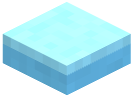
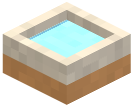
feat: water auto-connection via 4-neighbor mask variants (Task 5)
TileMap.waterMaskAt computes the neighbor mask (N/E/S/W bits; canal-edge
counts as water so pools connect to canals; out-of-bounds is dry so the
platform border keeps its bank). The renderer swaps 'tile-water' cells
for 'tile-water-<mask>' at draw time.

The 16 variants come from one parameterized model (stone banks only on
closed sides, recessed water surface meeting seamlessly on open sides),
generated through the Three.js pipeline — pack grows 60 -> 76 PNGs,
manifest category 'terrain-variant' keeps them out of the palette.

TDD: mask expectations added to the TileMap self-check first (2x3 pool
corners/edges, isolated tile, canal neighbor, platform border), then the
implementation. Verified in-browser: a 2x3 pool reads as one body with
banks only on the outer border; a lone tile shows all four banks.

diff --git a/Voxel-Diorama/japan/mockup/assets/contact-sheet.html b/Voxel-Diorama/japan/mockup/assets/contact-sheet.html
@@ -9,7 +9,7 @@
   img { max-width: 160px; } /* smooth scaling: sprites are antialiased 3D renders */
   figcaption { font-size: 12px; margin-top: 8px; } code { color: #a08c6a; font-size: 10px; }
 </style></head>
-<body><h1>Japanese Temple Voxels — generated asset pack (60)</h1>
+<body><h1>Japanese Temple Voxels — generated asset pack (76)</h1>
 
     <h2>terrain</h2>
     <div class="grid">
@@ -93,5 +93,25 @@
       <figure><img src="ui-highlight-hover.png" alt="Hover Highlight"><figcaption>Hover Highlight<br><code>ui-highlight-hover</code></figcaption></figure>
       <figure><img src="ui-highlight-valid.png" alt="Valid Placement"><figcaption>Valid Placement<br><code>ui-highlight-valid</code></figcaption></figure>
       <figure><img src="ui-highlight-invalid.png" alt="Invalid Placement"><figcaption>Invalid Placement<br><code>ui-highlight-invalid</code></figcaption></figure>
+    </div>
+
+    <h2>terrain-variant</h2>
+    <div class="grid">
+      <figure><img src="tile-water-0.png" alt="Water Variant 0"><figcaption>Water Variant 0<br><code>tile-water-0</code></figcaption></figure>
+      <figure><img src="tile-water-1.png" alt="Water Variant 1"><figcaption>Water Variant 1<br><code>tile-water-1</code></figcaption></figure>
+      <figure><img src="tile-water-2.png" alt="Water Variant 2"><figcaption>Water Variant 2<br><code>tile-water-2</code></figcaption></figure>
+      <figure><img src="tile-water-3.png" alt="Water Variant 3"><figcaption>Water Variant 3<br><code>tile-water-3</code></figcaption></figure>
+      <figure><img src="tile-water-4.png" alt="Water Variant 4"><figcaption>Water Variant 4<br><code>tile-water-4</code></figcaption></figure>
+      <figure><img src="tile-water-5.png" alt="Water Variant 5"><figcaption>Water Variant 5<br><code>tile-water-5</code></figcaption></figure>
+      <figure><img src="tile-water-6.png" alt="Water Variant 6"><figcaption>Water Variant 6<br><code>tile-water-6</code></figcaption></figure>
+      <figure><img src="tile-water-7.png" alt="Water Variant 7"><figcaption>Water Variant 7<br><code>tile-water-7</code></figcaption></figure>
+      <figure><img src="tile-water-8.png" alt="Water Variant 8"><figcaption>Water Variant 8<br><code>tile-water-8</code></figcaption></figure>
+      <figure><img src="tile-water-9.png" alt="Water Variant 9"><figcaption>Water Variant 9<br><code>tile-water-9</code></figcaption></figure>
+      <figure><img src="tile-water-10.png" alt="Water Variant 10"><figcaption>Water Variant 10<br><code>tile-water-10</code></figcaption></figure>
+      <figure><img src="tile-water-11.png" alt="Water Variant 11"><figcaption>Water Variant 11<br><code>tile-water-11</code></figcaption></figure>
+      <figure><img src="tile-water-12.png" alt="Water Variant 12"><figcaption>Water Variant 12<br><code>tile-water-12</code></figcaption></figure>
+      <figure><img src="tile-water-13.png" alt="Water Variant 13"><figcaption>Water Variant 13<br><code>tile-water-13</code></figcaption></figure>
+      <figure><img src="tile-water-14.png" alt="Water Variant 14"><figcaption>Water Variant 14<br><code>tile-water-14</code></figcaption></figure>
+      <figure><img src="tile-water-15.png" alt="Water Variant 15"><figcaption>Water Variant 15<br><code>tile-water-15</code></figcaption></figure>
     </div>
 </body></html>

diff --git a/Voxel-Diorama/japan/mockup/src/grid/TileMap.js b/Voxel-Diorama/japan/mockup/src/grid/TileMap.js
@@ -33,6 +33,25 @@
       if (this.inBounds(col, row)) this.terrain[row][col] = tileId;
     }
 
+    // --- water auto-connection ---
+    // A side is "open" (no bank) when its neighbor holds water. Canal edges
+    // count as water so pools flow into canals. Out of bounds is not water,
+    // keeping a bank along the platform border.
+    isWaterLike(col, row) {
+      const t = this.getTerrain(col, row);
+      return t === 'tile-water' || t === 'tile-canal-edge';
+    }
+
+    // bit1 = N(-row), bit2 = E(+col), bit4 = S(+row), bit8 = W(-col)
+    waterMaskAt(col, row) {
+      let m = 0;
+      if (this.isWaterLike(col, row - 1)) m |= 1;
+      if (this.isWaterLike(col + 1, row)) m |= 2;
+      if (this.isWaterLike(col, row + 1)) m |= 4;
+      if (this.isWaterLike(col - 1, row)) m |= 8;
+      return m;
+    }
+
     // --- object layer ---
     objectAt(col, row) {
       return this.occ.get(col + ',' + row) || null;
@@ -165,6 +184,23 @@
     map.removeObjectAt(6, 6); // any temple cell
     assert.strictEqual(map.objectAt(5, 5), null, 'temple fully removed');
     assert.strictEqual(map.canPlace(5, 5, 3, 3), true, 'cells freed after erase');
+
+    // water auto-connection mask: bit1=N(-row) bit2=E(+col) bit4=S(+row) bit8=W(-col)
+    const wm = new TileMap(12, 12, 'tile-grass');
+    for (const [c, r] of [[4, 4], [5, 4], [4, 5], [5, 5], [4, 6], [5, 6]]) {
+      wm.setTerrain(c, r, 'tile-water'); // 2x3 pool, cols 4-5, rows 4-6
+    }
+    wm.setTerrain(9, 9, 'tile-water');   // isolated tile
+    assert.strictEqual(wm.waterMaskAt(9, 9), 0, 'isolated water: all four banks');
+    assert.strictEqual(wm.waterMaskAt(4, 4), 2 | 4, 'pool NW corner: open E+S');
+    assert.strictEqual(wm.waterMaskAt(5, 5), 1 | 4 | 8, 'pool mid-right edge: open N+S+W');
+    assert.strictEqual(wm.waterMaskAt(5, 6), 1 | 8, 'pool SE corner: open N+W');
+    // canal-edge counts as water so pools visually connect to canals
+    wm.setTerrain(4, 3, 'tile-canal-edge');
+    assert.strictEqual(wm.waterMaskAt(4, 4), 1 | 2 | 4, 'canal neighbor opens N');
+    // grid border: out-of-bounds is not water -> bank at the platform edge
+    wm.setTerrain(0, 0, 'tile-water');
+    assert.strictEqual(wm.waterMaskAt(0, 0), 0, 'platform corner keeps banks');
 
     console.log('TileMap self-check OK');
   }

diff --git a/Voxel-Diorama/japan/mockup/src/assets/assetModels.js b/Voxel-Diorama/japan/mockup/src/assets/assetModels.js
@@ -92,6 +92,22 @@ function dirtBody(v, h = 3) {
   v.box(0, 0, 0, 8, 8, h, C.dirt, { jitter: 0.05 });
 }
 
+// Recessed water with stone banks on the closed sides. mask bits (grid space):
+// 1 = N(-row, model y=0) open, 2 = E(+col, x=7), 4 = S(+row, y=7), 8 = W(-col, x=0).
+function waterVariant(mask) {
+  return {
+    shadow: false,
+    build(v) {
+      v.box(0, 0, 0, 8, 8, 2, C.dirt, { jitter: 0.05 });        // base
+      v.box(0, 0, 2, 8, 8, 1, C.waterTop, { jitter: 0.06 });    // water surface
+      if (!(mask & 1)) v.box(0, 0, 2, 8, 1, 2, C.stone, { jitter: 0.05 });
+      if (!(mask & 2)) v.box(7, 0, 2, 1, 8, 2, C.stone, { jitter: 0.05 });
+      if (!(mask & 4)) v.box(0, 7, 2, 8, 1, 2, C.stone, { jitter: 0.05 });
+      if (!(mask & 8)) v.box(0, 0, 2, 1, 8, 2, C.stone, { jitter: 0.05 });
+    },
+  };
+}
+
 const MODELS = {
   // ===== terrain =====
   'tile-grass': {
@@ -120,13 +136,10 @@ const MODELS = {
     shadow: false,
     build(v) { v.box(0, 0, 0, 8, 8, 4, C.dirt, { jitter: 0.06 }); },
   },
-  'tile-water': {
-    shadow: false,
-    build(v) {
-      v.box(0, 0, 0, 8, 8, 3, C.water, { jitter: 0.03 });
-      v.box(0, 0, 2, 8, 8, 1, C.waterTop, { jitter: 0.06 }); // recessed 1 below grass
-    },
-  },
+  // Water connects: the renderer swaps 'tile-water' cells for the variant
+  // matching the 4-neighbor water mask (see TileMap.waterMaskAt). Stone banks
+  // sit on sides WITHOUT a water neighbor; open sides meet seamlessly.
+  'tile-water': waterVariant(0), // palette icon / preview ghost: isolated look
   'tile-stone': {
     shadow: false,
     build(v) {
@@ -660,5 +673,8 @@ const MODELS = {
     },
   },
 };
+
+// the 16 render-time water connection variants (manifest category 'terrain-variant')
+for (let m = 0; m < 16; m++) MODELS['tile-water-' + m] = waterVariant(m);
 
 module.exports = { MODELS };

diff --git a/Voxel-Diorama/japan/mockup/assets/meta.js b/Voxel-Diorama/japan/mockup/assets/meta.js
@@ -20,9 +20,9 @@ var JTV_SPRITE_META = {
  },
  "tile-water": {
   "w": 133,
-  "h": 97,
+  "h": 107,
   "ax": 66.83,
-  "ay": 25.42
+  "ay": 35.22
  },
  "tile-stone": {
   "w": 133,
@@ -359,6 +359,102 @@ var JTV_SPRITE_META = {
   "h": 68,
   "ax": 66,
   "ay": 34
+ },
+ "tile-water-0": {
+  "w": 133,
+  "h": 107,
+  "ax": 66.83,
+  "ay": 35.22
+ },
+ "tile-water-1": {
+  "w": 133,
+  "h": 107,
+  "ax": 66.83,
+  "ay": 35.22
+ },
+ "tile-water-2": {
+  "w": 133,
+  "h": 107,
+  "ax": 66.83,
+  "ay": 35.22
+ },
+ "tile-water-3": {
+  "w": 133,
+  "h": 107,
+  "ax": 66.83,
+  "ay": 35.22
+ },
+ "tile-water-4": {
+  "w": 133,
+  "h": 107,
+  "ax": 66.83,
+  "ay": 35.22
+ },
+ "tile-water-5": {
+  "w": 133,
+  "h": 107,
+  "ax": 66.83,
+  "ay": 35.22
+ },
+ "tile-water-6": {
+  "w": 133,
+  "h": 107,
+  "ax": 66.83,
+  "ay": 35.22
+ },
+ "tile-water-7": {
+  "w": 133,
+  "h": 107,
+  "ax": 66.83,
+  "ay": 35.22
+ },
+ "tile-water-8": {
+  "w": 133,
+  "h": 107,
+  "ax": 66.83,
+  "ay": 35.22
+ },
+ "tile-water-9": {
+  "w": 133,
+  "h": 98,
+  "ax": 66.83,
+  "ay": 26.22
+ },
+ "tile-water-10": {
+  "w": 133,
+  "h": 107,
+  "ax": 66.83,
+  "ay": 35.22
+ },
+ "tile-water-11": {
+  "w": 133,
+  "h": 98,
+  "ax": 66.83,
+  "ay": 26.22
+ },
+ "tile-water-12": {
+  "w": 133,
+  "h": 107,
+  "ax": 66.83,
+  "ay": 35.22
+ },
+ "tile-water-13": {
+  "w": 133,
+  "h": 98,
+  "ax": 66.83,
+  "ay": 26.22
+ },
+ "tile-water-14": {
+  "w": 133,
+  "h": 107,
+  "ax": 66.83,
+  "ay": 35.22
+ },
+ "tile-water-15": {
+  "w": 133,
+  "h": 97,
+  "ax": 66.83,
+  "ay": 25.42
  }
 };
 var JTV_TILE_METRICS = {"tileW":128,"tileH":64,"zStepPx":9.8,"cellVoxels":8,"tileTopVoxels":4};

diff --git a/Voxel-Diorama/japan/mockup/src/assets/assetManifest.js b/Voxel-Diorama/japan/mockup/src/assets/assetManifest.js
@@ -64,6 +64,9 @@ var ASSET_MANIFEST = [
   { id: 'building-watchtower', name: 'Watchtower', category: 'buildings', footprint: [2, 2] },
   { id: 'building-temple', name: 'Main Temple', category: 'buildings', footprint: [3, 3] },
 
+  // --- water connection variants (render-time only, never in the palette) ---
+  // pushed programmatically below the literal: tile-water-0 .. tile-water-15
+
   // --- UI chrome (not placeable, excluded from the palette) ---
   { id: 'ui-button', name: 'Button', category: 'ui', footprint: [1, 1] },
   { id: 'ui-button-hover', name: 'Button Hover', category: 'ui', footprint: [1, 1] },
@@ -80,5 +83,14 @@ var ASSET_MANIFEST = [
   { id: 'ui-highlight-valid', name: 'Valid Placement', category: 'ui', footprint: [1, 1] },
   { id: 'ui-highlight-invalid', name: 'Invalid Placement', category: 'ui', footprint: [1, 1] },
 ];
+
+for (var wm = 0; wm < 16; wm++) {
+  ASSET_MANIFEST.push({
+    id: 'tile-water-' + wm,
+    name: 'Water Variant ' + wm,
+    category: 'terrain-variant',
+    footprint: [1, 1],
+  });
+}
 
 if (typeof module !== 'undefined') module.exports = { ASSET_MANIFEST };

diff --git a/Voxel-Diorama/japan/mockup/src/core/Renderer.js b/Voxel-Diorama/japan/mockup/src/core/Renderer.js
@@ -99,7 +99,10 @@
         for (let col = 0; col < cols; col++) {
           const r = d - col;
           if (r < 0 || r >= rows) continue;
-          this.drawSprite(this.map.terrain[r][col], this.grid.cellToAnchor(col, r));
+          let id = this.map.terrain[r][col];
+          // water auto-connects: swap in the 4-neighbor-mask variant
+          if (id === 'tile-water') id = 'tile-water-' + this.map.waterMaskAt(col, r);
+          this.drawSprite(id, this.grid.cellToAnchor(col, r));
         }
       }
     }

diff --git a/Voxel-Diorama/japan/mockup/PLAN.md b/Voxel-Diorama/japan/mockup/PLAN.md
@@ -200,16 +200,24 @@ objects only. TileMap has a node self-check for occupancy + depth order.
 `src/building/PlacedObject.js`, `src/core/Game.js`
 **Estimated scope:** M
 
-## Task 5: Water auto-connection
+## Task 5: Water auto-connection ✅ DONE
 
 **Description:** Water and canal-edge tiles select edge variants from the 4-neighbor
 water bitmask at render time so adjacent water reads as one body with clean banks.
 
 **Acceptance criteria:**
-- [ ] A painted 2×3 water pool shows edges only on its outer border
-- [ ] Single water tile shows all four edges
+- [x] A painted 2×3 water pool shows edges only on its outer border (verified
+      in-browser: interior seams invisible, corner/edge masks correct)
+- [x] Single water tile shows all four edges (mask 0 = isolated basin)
 
 **Verification:** manual paint test; bitmask→variant function assert self-check.
+
+**Notes:** 16 generated variants `tile-water-0..15` (category `terrain-variant`,
+never in the palette) from one parameterized model; the pack grows 60 → 76 PNGs.
+`TileMap.waterMaskAt` computes the mask (canal-edge counts as water so pools feed
+canals; out-of-bounds keeps a bank at the platform border); the renderer swaps
+`tile-water` for its variant at draw time. Known ceiling: 4-neighbor masks don't
+cover inner corners of L-pools (1-voxel notch) — 8-neighbor variants if it ever bothers.
 
 **Dependencies:** Task 4
 **Files likely touched:** `src/grid/TileMap.js`, `src/core/Renderer.js`
